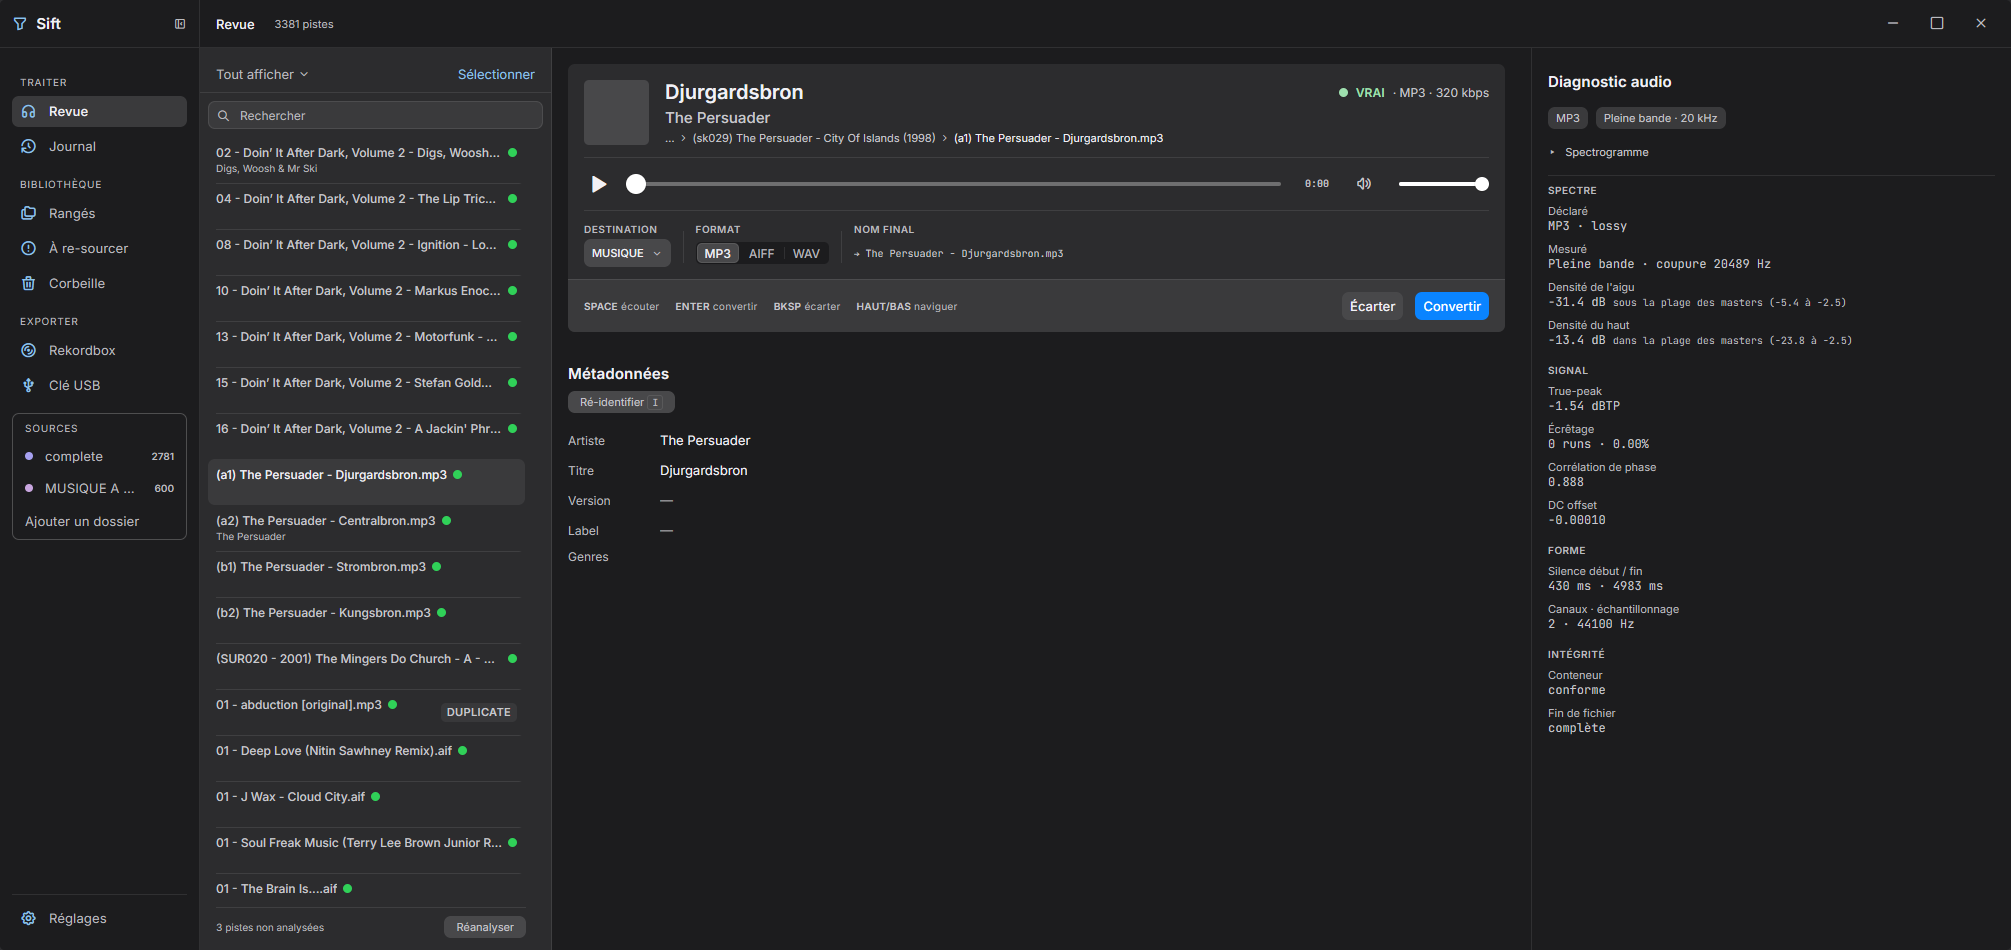
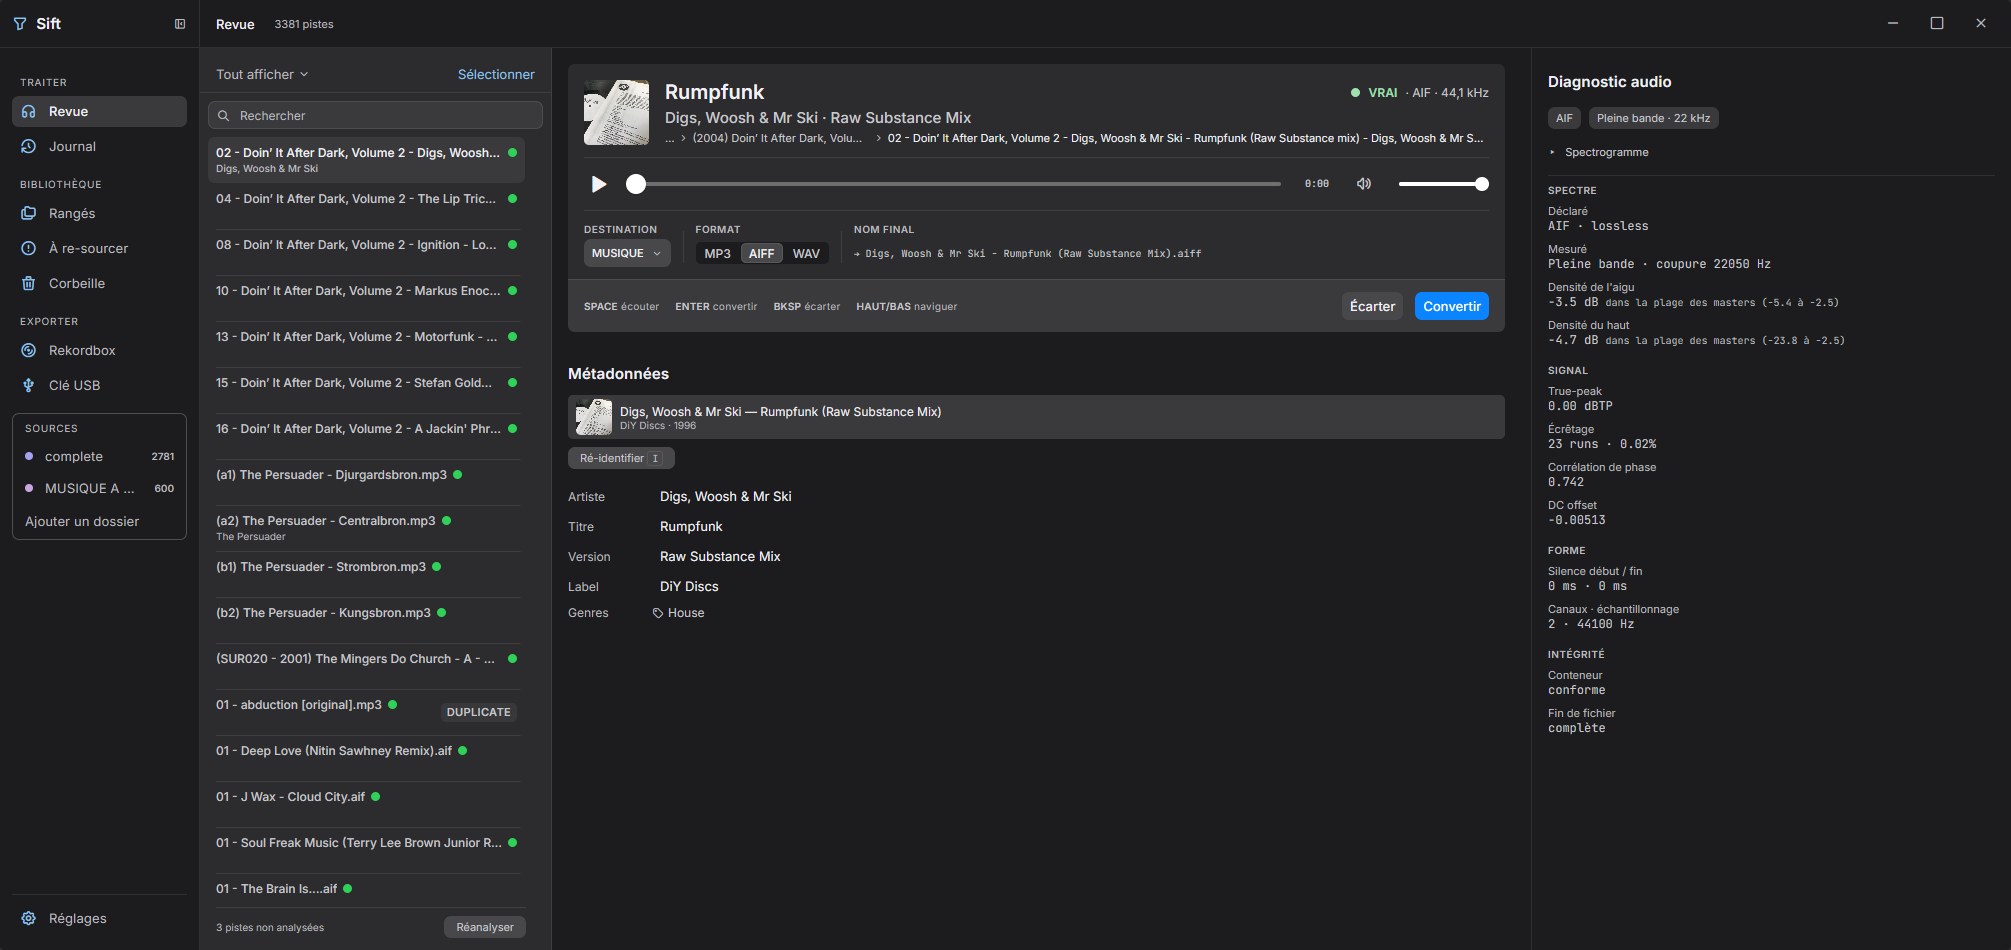
fix(site): les sections retrouvent leur espace vertical, et la capture montre une piste identifiée
- `section.wrap{padding:44px 24px}` : `.wrap` (padding 0 24px) avait la même spécificité que
  `section` et venait après — chaque section perdait ses 40 px haut et bas, les titres
  collaient au bloc précédent (mesuré en capture à 1280 px). Même collision sur `.hero`, qui
  perdait son padding latéral : corrigé, avec un cran mobile.
- La marque « carré bleu + Sift » de la barre était un logo inventé (la direction du logo est
  le ticket #12) : texte seul. Liens de la barre à 32 px de haut.
- `docs/screenshots/revue.png` : « Rumpfunk » (Digs, Woosh & Mr Ski, AIF, VRAI, pochette,
  fiche Discogs remplie) remplace « Djurgardsbron » (MP3, pochette vide, métadonnées vides),
  qui donnait à l'app l'air inachevé — « ton screenshot est cassé » (Antoine).

diff --git a/docs/accueil.html b/docs/accueil.html
@@ -57,16 +57,15 @@ kbd{font:500 11px var(--mono);border:1px solid var(--line);border-radius:3px;pad
 /* Barre du site : la barre unifiée de l'app, en tête de page. */
 .top{position:sticky;top:0;z-index:5;background:var(--bg-3);border-bottom:1px solid var(--line-2)}
 .top .wrap{display:flex;align-items:center;gap:20px;height:48px}
-.brand{font-weight:600;font-size:15px;display:flex;align-items:center;gap:8px;color:var(--ink)}
-.brand i{width:10px;height:10px;border-radius:2px;background:var(--accent);display:block}
+.brand{font-weight:600;font-size:15px;color:var(--ink)}
 .top nav{display:flex;gap:4px;margin-left:auto}
-.top nav a{display:inline-flex;align-items:center;height:28px;padding:0 10px;border-radius:var(--r-md);color:var(--ink);font-size:13px}
+.top nav a{display:inline-flex;align-items:center;height:32px;padding:0 12px;border-radius:var(--r-md);color:var(--ink);font-size:13px}
 .top nav a:hover{background:var(--hover);text-decoration:none}
 .top nav a.cta{background:var(--accent);color:var(--on-accent)}
 .top nav a.cta:hover{background:var(--accent)}
 
 /* Héros : la thèse en une phrase, le bouton de la bonne machine, la fenêtre réelle. */
-.hero{padding:64px 0 40px}
+.hero{padding:64px 24px 40px}
 .hero h1{font-size:44px;line-height:1.1;font-weight:600;letter-spacing:-.015em;margin:0 0 16px;text-wrap:balance;max-width:20ch}
 .hero .lede{font-size:18px;color:var(--ink-2);max-width:56ch;margin:0 0 28px;text-wrap:pretty}
 .dl{display:flex;flex-wrap:wrap;align-items:center;gap:10px 14px;margin-bottom:10px}
@@ -82,7 +81,9 @@ kbd{font:500 11px var(--mono);border:1px solid var(--line);border-radius:3px;pad
 .shot img{display:block;width:100%;height:auto}
 
 /* Trois mots : le vocabulaire de l'app, montré avec ses capsules de verdict. */
-section{padding:40px 0}
+/* `section.wrap` : `.wrap` (padding 0 24px) a la même spécificité que `section` et vient après —
+   sans ce sélecteur combiné, les sections perdaient tout leur espace vertical. */
+section.wrap{padding:44px 24px}
 section + section{border-top:1px solid var(--line-2)}
 h2{font-size:24px;line-height:1.2;font-weight:600;letter-spacing:-.01em;margin:0 0 8px;text-wrap:balance}
 .sub{color:var(--ink-2);margin:0 0 24px;max-width:60ch;text-wrap:pretty}
@@ -104,7 +105,7 @@ h2{font-size:24px;line-height:1.2;font-weight:600;letter-spacing:-.01em;margin:0
 
 .rules{margin:0;padding-left:20px;max-width:64ch}
 .rules li{margin:6px 0}
-.hints{display:flex;flex-wrap:wrap;gap:8px 20px;font-size:11px;letter-spacing:.04em;color:var(--ink-3);margin:16px 0 0}
+.hints{display:flex;flex-wrap:wrap;gap:8px 20px;font-size:11px;letter-spacing:.04em;color:var(--ink-3);margin:20px 0 0}
 .hints b{font-weight:600;color:var(--ink-2)}
 
 .honest{border:1px solid var(--line-2);border-radius:var(--r-md);padding:16px 18px;background:var(--bg-2);max-width:820px}
@@ -116,7 +117,8 @@ footer .wrap{display:flex;flex-wrap:wrap;gap:8px 24px}
 footer a{color:var(--ink-2)}
 
 @media (max-width:760px){
-  .hero{padding:40px 0 24px}
+  .hero{padding:40px 20px 24px}
+  section.wrap{padding:32px 20px}
   .hero h1{font-size:32px}
   .verdicts,.steps{grid-template-columns:1fr}
   .top nav a:not(.cta){display:none}
@@ -125,7 +127,7 @@ footer a{color:var(--ink-2)}
 
 <header class="top">
   <div class="wrap">
-    <a class="brand" href="#"><i aria-hidden="true"></i>Sift</a>
+    <a class="brand" href="#">Sift</a>
     <nav>
       <a href="#fait">Ce qu'il fait</a>
       <a href="/manuel.html">Manuel</a>
